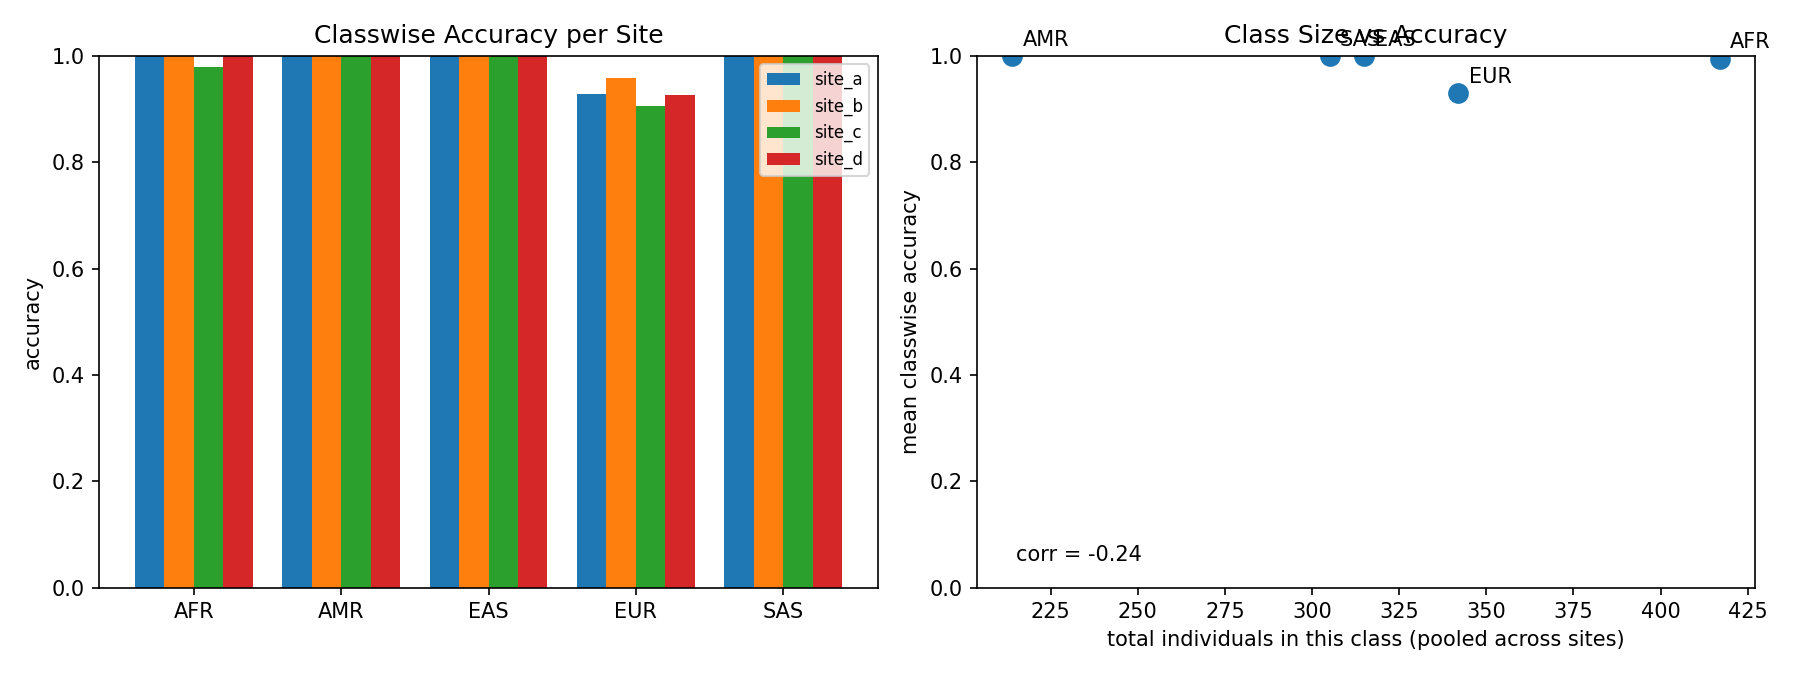
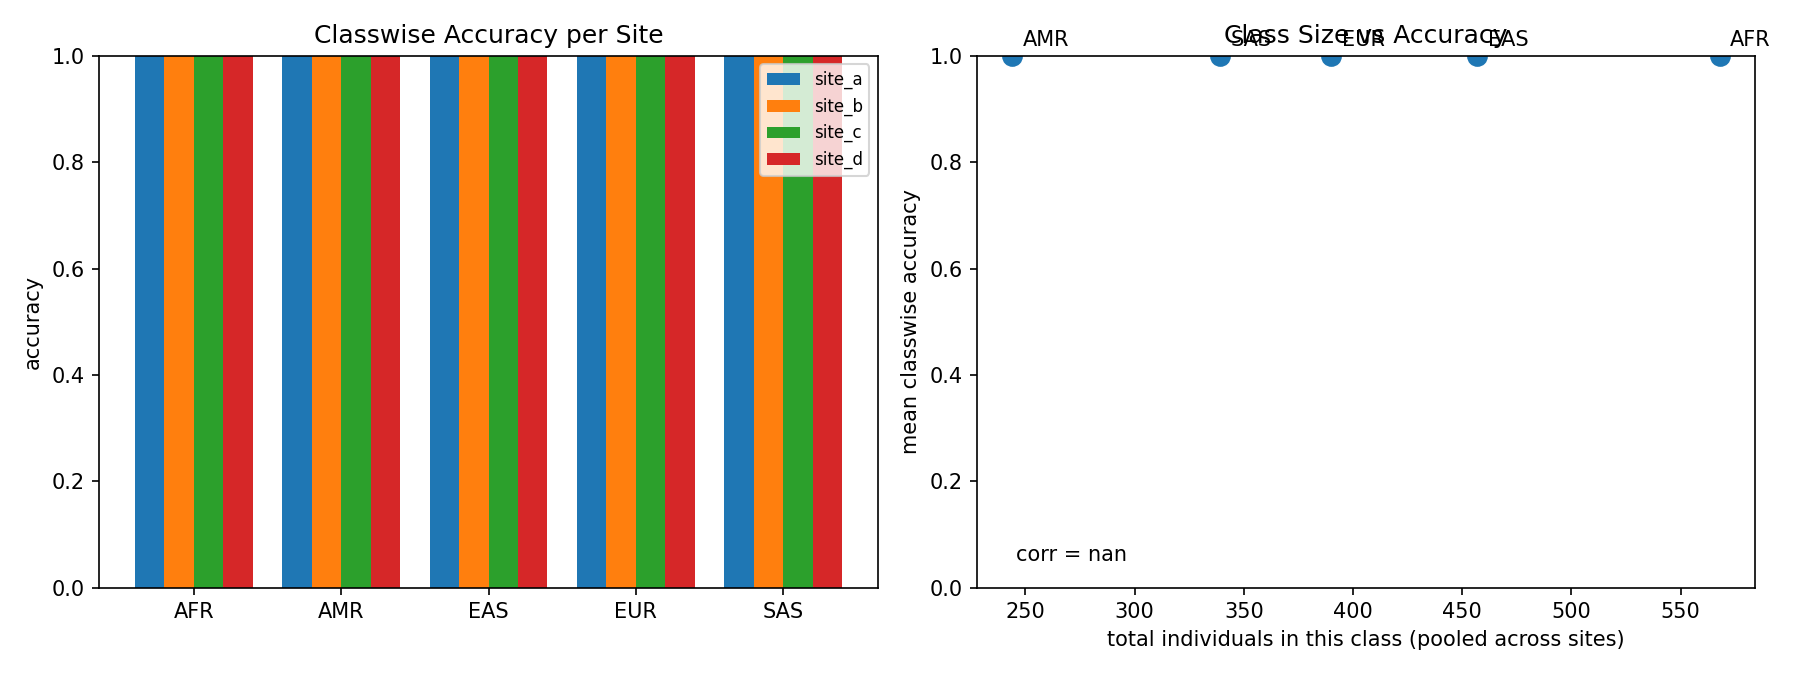
done with comparision over 4 sites

diff --git a/fl-from-flwr/client.py b/fl-from-flwr/client.py
@@ -15,8 +15,10 @@ parser.add_argument("--client-id", type=int, required=True, help="1, 2, 3, or 4"
 parser.add_argument("--site-name", type=str, default=None,
                      help="Site label used in result CSVs, e.g. site_a. Defaults to "
                           "'site_<client-id>' if omitted.")
-parser.add_argument("--genotypes-id", type=str, required=True, help="DRS ID of the sscore file")
-parser.add_argument("--ancestry-id", type=str, required=True, help="DRS ID of the tsv file")
+parser.add_argument("--unified-id", type=str, required=True,
+                     help="DRS ID of this site's unified_data.tsv (as produced by "
+                          "merge_flan_data_4sites.py -- genotypes + ancestry already "
+                          "merged into one file, labeled with a 'super_pop' column).")
 parser.add_argument("--val-fraction", type=float, default=0.2,
                      help="Fraction of this site's local data held out for evaluation. "
                           "Evaluating on the same rows used for training (the previous "
@@ -57,35 +59,32 @@ def resolve_single_drs_stream(object_id):
         
     return stream_url
 
-def load_and_align_datasets(genotypes_id, ancestry_id):
-    print("\n[GA4GH DRS Orchestration] Resolving streaming vectors...")
-    
-    # Call the endpoints to fetch data locations
-    sscore_stream = resolve_single_drs_stream(genotypes_id)
-    print(f"[DRS Stream Unlocked] Genotypes destination -> {sscore_stream}")
-    
-    ancestry_stream = resolve_single_drs_stream(ancestry_id)
-    print(f"[DRS Stream Unlocked] Ancestry destination -> {ancestry_stream}")
-    
-    # Read streaming endpoints or underlying files smoothly
-    df_sscore = pd.read_csv(sscore_stream, sep="\t")
-    df_ancestry = pd.read_csv(ancestry_stream, sep="\t")
-    
-    # Align matrices securely on patient identifier index (IID)
-    merged_df = pd.merge(df_sscore.drop(columns="super_pop"), df_ancestry, on="IID")
-    print(f"[Data Pipeline] Aligned matrix completely. Total unified rows: {len(merged_df)}")
-    
-    pc_features = [f"PC{i+1}_AVG" for i in range(10)]
-    X_data = merged_df[pc_features].values
-    y_labels = merged_df["super_pop"].apply(lambda x: SUPERPOPS.index(x)).values
-    
+def load_unified_dataset(unified_id):
+    """unified_data.tsv (from merge_flan_data_4sites.py) is already merged --
+    one row per individual, PC columns + a 'super_pop' label column. No second
+    DRS object, no client-side pd.merge needed."""
+    print("\n[GA4GH DRS Orchestration] Resolving streaming vector...")
+
+    unified_stream = resolve_single_drs_stream(unified_id)
+    print(f"[DRS Stream Unlocked] Unified data destination -> {unified_stream}")
+
+    df = pd.read_csv(unified_stream, sep="\t")
+    print(f"[Data Pipeline] Loaded unified site data. Total rows: {len(df)}")
+
+    pc_cols = [c for c in df.columns if c.upper().startswith("PC") and c.upper().endswith("_AVG")]
+    pc_cols = sorted(pc_cols, key=lambda c: int(''.join(filter(str.isdigit, c))))
+
+    X_data = df[pc_cols].values
+    # merge_flan_data_4sites.py writes the label column as 'super_pop', not 'superpop'
+    y_labels = df["super_pop"].apply(lambda x: SUPERPOPS.index(x)).values
+
     X_tensor = torch.tensor(X_data, dtype=torch.float32)
     y_tensor = torch.tensor(y_labels, dtype=torch.long)
-    
+
     return TensorDataset(X_tensor, y_tensor)
 
 # Build execution set
-local_dataset = load_and_align_datasets(args.genotypes_id, args.ancestry_id)
+local_dataset = load_unified_dataset(args.unified_id)
 
 # Real held-out split: train on train_subset, evaluate (and report classwise
 # accuracy) ONLY on val_subset. Without this, evaluate() below would just be
